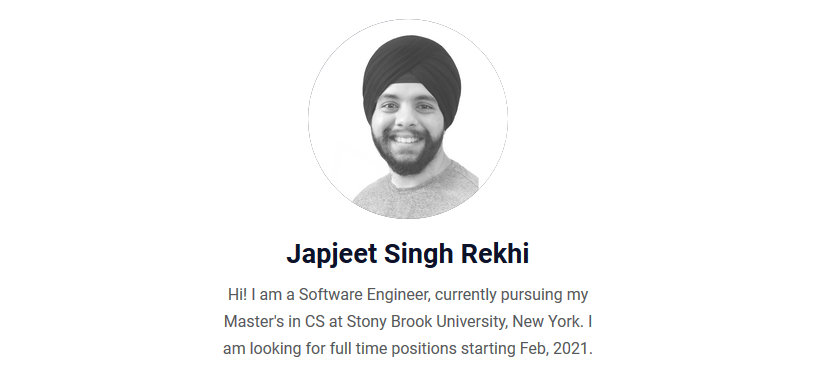
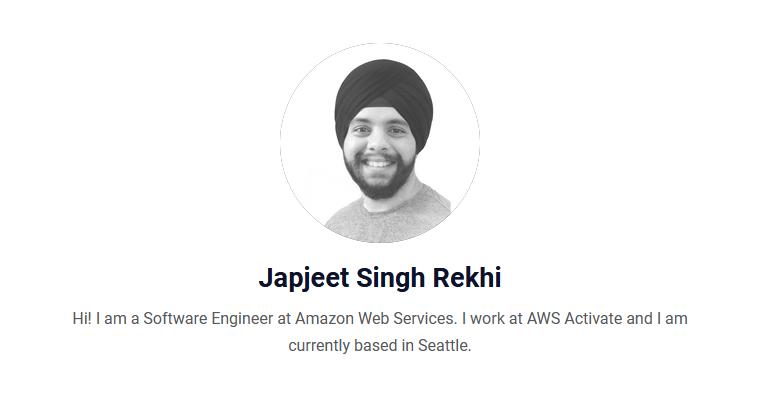
added AWS

Changed region(s): [[0.0906, 0.6352, 0.9055, 0.9528], [0.4226, 0.0866, 0.6037, 0.6063]]

diff --git a/about.md b/about.md
@@ -11,5 +11,7 @@ I love coffee, football (soccer for all you North American folks), chess, readin
 
 My Myers-Briggs Type Indicator (MBTI) is ENFP-A [Extraverted Intuitive Feeling Prospecting Assertive]. The favorite people I supposedly share my personality type with are Robert Downey Jr, Robin Williams, Will Smith, and Michael Scott (The Office). You can take the test [here](https://www.16personalities.com/free-personality-test). 
 
-If you want to discuss something with me or want to say Hi, connect with me on LinkedIn [LinkedIn](https://www.linkedin.com/in/japjeetrekhi) or send me a [mail](mailto:japjeetsingh.rekhi@stonybrook.edu).
+On March 15, 2021, I started my first job as a Software Engineer at [Amazon Web Services, Inc](https://aws.amazon.com/).
+
+If you want to discuss something with me or want to say Hi, connect with me on [LinkedIn](https://www.linkedin.com/in/japjeetrekhi) or send me a [mail](mailto:japjeetsingh.rekhi@stonybrook.edu).
 

diff --git a/projects.md b/projects.md
@@ -1,0 +1,10 @@
+---
+title: Some of the projects I have worked on
+permalink: /projects/
+layout: page
+comments: False
+---
+
+### Automatic Redistricting System 
+
+I worked under
